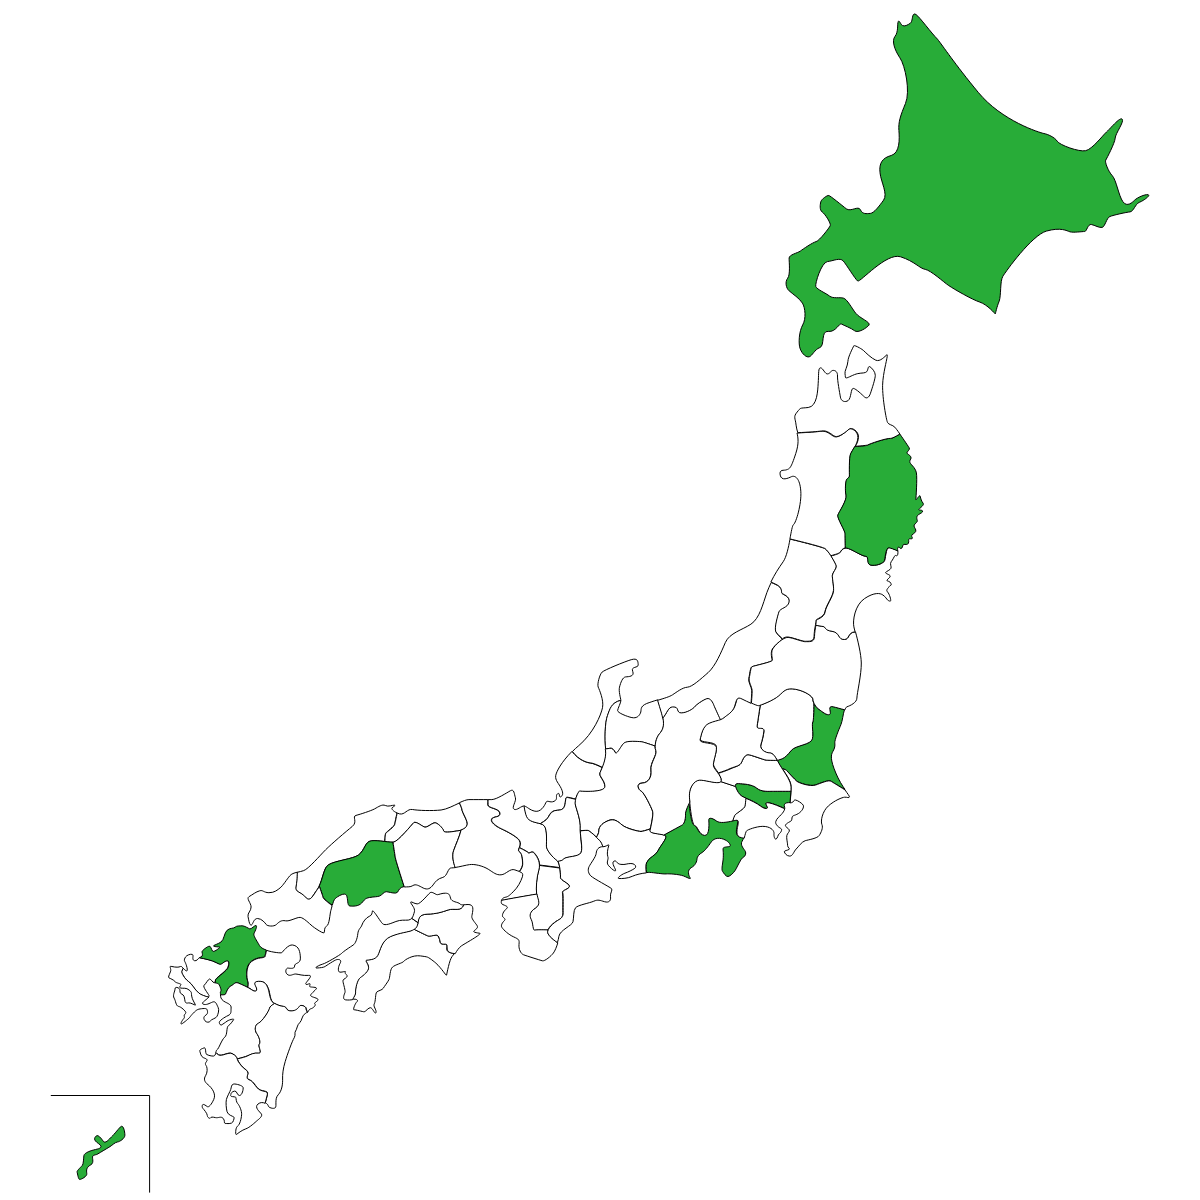
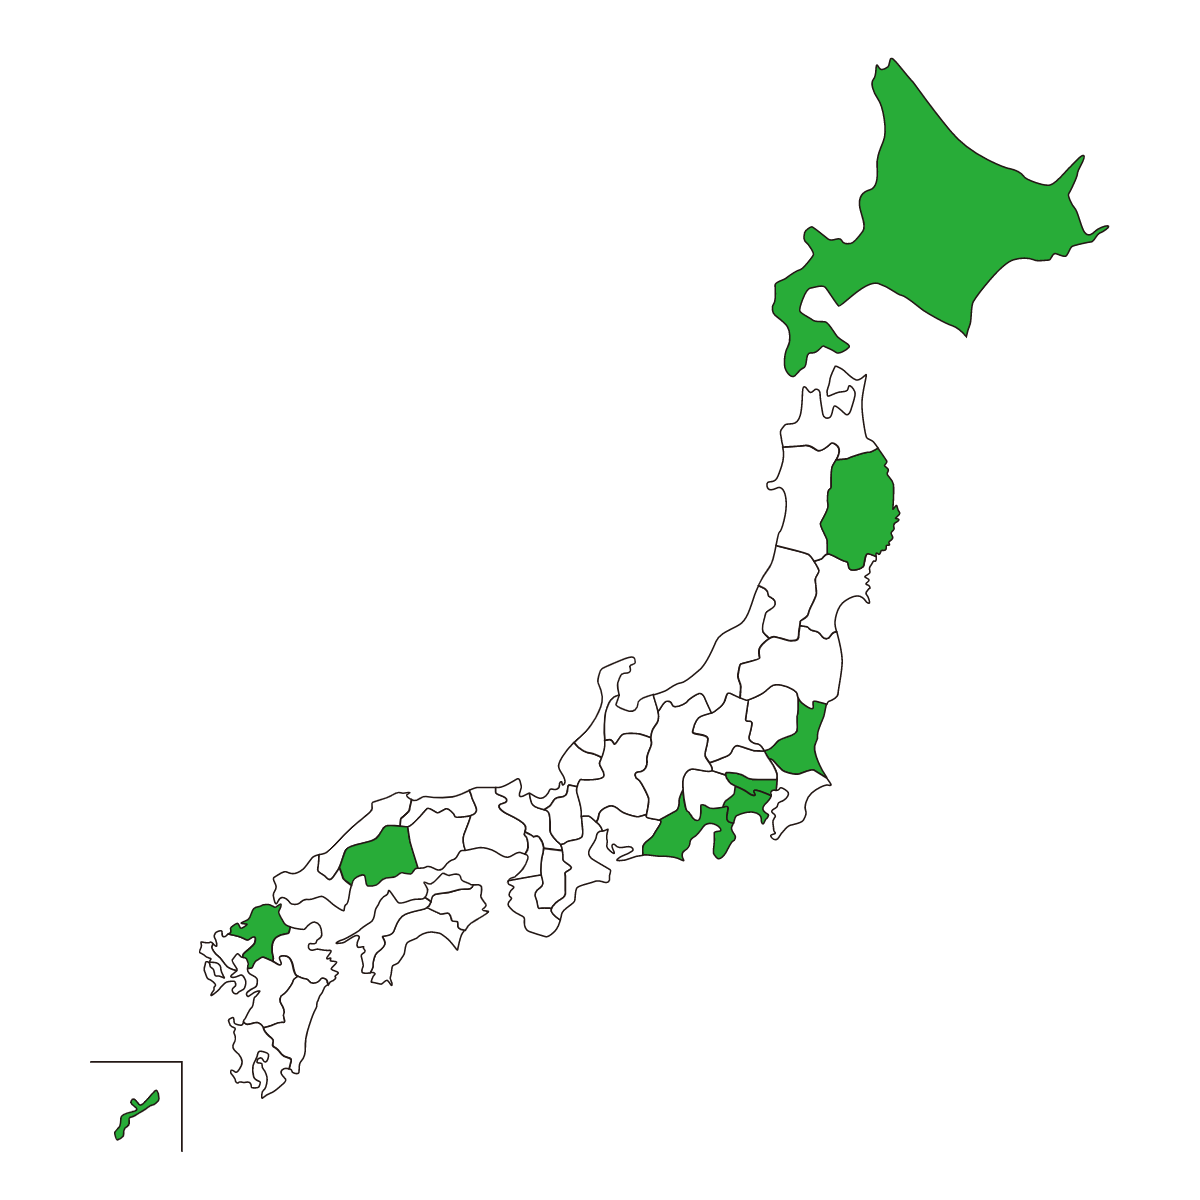
開催実績などを現在時点の数字に更新

Changed region(s): [[0.1233, 0.0, 0.9558, 0.925], [0.0925, 0.8942, 0.1542, 0.9558], [0.0617, 0.9558, 0.0925, 0.9867]]

diff --git a/index.html b/index.html
@@ -149,7 +149,7 @@
             <hr class="divider my-4" />
             <p class="mb-4">
               <a href="https://tddyyx.connpass.com/">Connpassコミュニティ</a
-              >のメンバー数は述べ277人所属しています。（2019年4月6日時点,
+              >のメンバー数は述べ423人所属しています。（2020年5月23日時点,
               参考値）
               <br />
               参加者には学生や社会人エンジニア、教員もいます。
@@ -174,17 +174,17 @@
               <br />
               2018年: 18回
               <br />
-              2019年: 3回
+              2019年: 12回
             </p>
 
             <h3 class="mt-5">出張開催の実績</h3>
             <hr class="divider my-4" />
             <p class="mb-4">
-              過去に、岩手県、茨城県、東京都、静岡県、広島県、福岡県、沖縄県での出張開催実績があります。
+              過去に、岩手県、茨城県、東京都、神奈川県、静岡県、広島県、福岡県、沖縄県での出張開催実績があります。
             </p>
             <img class="img-fluid" src="img/achievement.png" />
             <p class="mb-4">
-              (2019年5月19日現在)
+              (2020年5月23日現在)
             </p>
           </div>
         </div>
